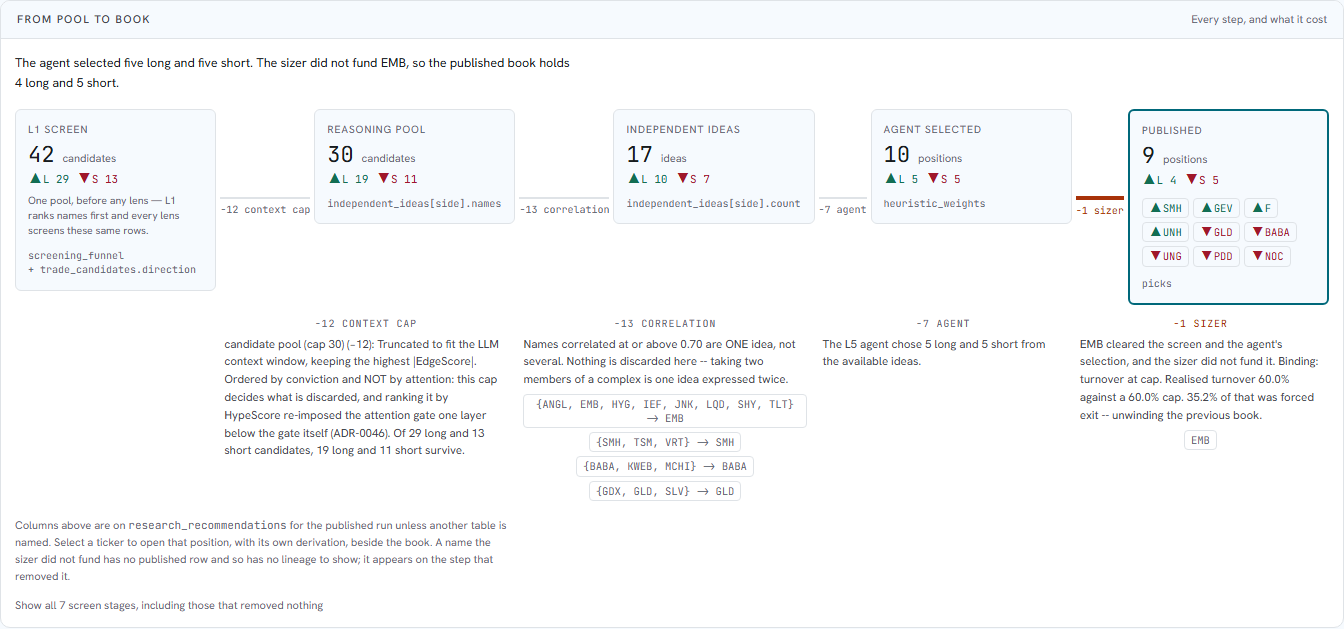
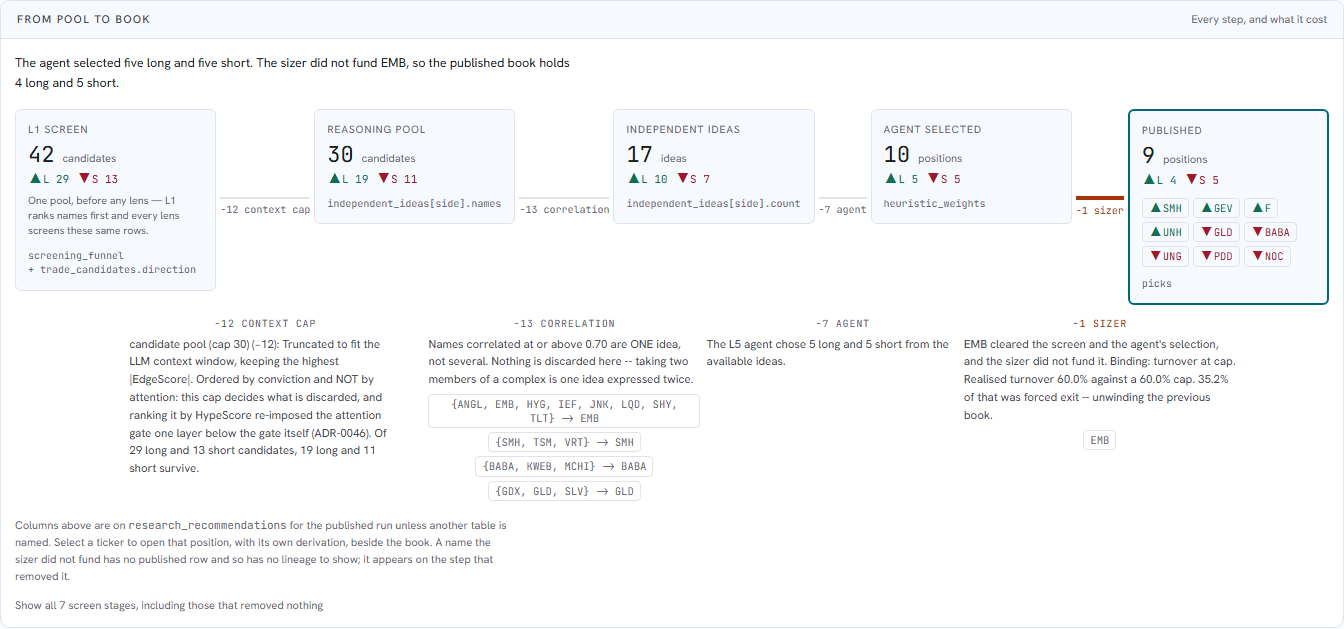
fix(book): the two "−12 context cap" labels share a centre
The previous commit centred each detail block inside a cell spanning
`connector + following node`, so its midpoint fell between the two — the label on
the line and the label heading its explanation sat at different x, which is the
misalignment the centring was supposed to fix.

The span now starts one track EARLIER: `node · connector · node`. Both node
tracks are 1fr, so the cell is symmetric about the connector and centring lands
on the connector's own centre. Measured, connector label against detail label:

    context    341 / 341        chosen     919 / 919
    ideas      640 / 640        published 1176 / 1176

delta 0 on all four.

Adjacent cells therefore SHARE a track (1-3, 3-5, 5-7, 7-9) and overlap as grid
AREAS. They do not overlap as ink: the content is capped at 17rem and centred
inside its three tracks, so each block occupies the middle of its own span with
clear space either side. Recorded because overlapping grid areas look like a bug
to the next reader and this one is load-bearing.

Unchanged below `lg`, where the chain is a flex column and the inline
`gridColumn` is inert: verified at 430, pipeline order intact, no overflow.

1133 frontend tests, tsc clean.

Changed region(s): [[0.0938, 0.5135, 0.9688, 0.7854], [0.8125, 0.6948, 0.8438, 0.725]]

diff --git a/frontend/components/book/BookFunnel.tsx b/frontend/components/book/BookFunnel.tsx
@@ -266,10 +266,24 @@ export default function BookFunnel({
                 {/* This step's account of itself, under its own connector. */}
                 {i > 0 && edge && (
                   <div
-                    className="min-w-0 text-[11.5px] leading-[1.55] lg:px-2 lg:text-center"
-                    style={{ gridColumn: `${edgeCol} / span 2`, gridRow: 2 }}
+                    // CENTRED ON THE CONNECTOR, which is why the span starts one
+                    // track EARLIER than the connector's own. Spanning
+                    // `edgeCol / span 2` and centring put the block's midpoint
+                    // between the connector and the next node, so the two
+                    // `−12 context cap` labels — the one on the line and the one
+                    // heading its explanation — sat at different x. Spanning
+                    // node-connector-node makes the cell symmetric about the
+                    // connector, because both node tracks are 1fr.
+                    //
+                    // Adjacent cells therefore SHARE a track (1-3, 3-5, 5-7,
+                    // 7-9) and overlap as grid areas. They do not overlap as
+                    // ink: the content is capped and centred inside, so each
+                    // block occupies the middle of its own three tracks.
+                    className="min-w-0 text-[11.5px] leading-[1.55] lg:text-center"
+                    style={{ gridColumn: `${edgeCol - 1} / span 3`, gridRow: 2 }}
                     data-testid={`funnel-detail-${node.id}`}
                   >
+                    <div className="lg:max-w-[17rem] lg:mx-auto">
                     <div
                       className="num text-[10px] uppercase tracking-[0.08em] mb-1"
                       style={{
@@ -297,6 +311,7 @@ export default function BookFunnel({
                         ))}
                       </ul>
                     ) : null}
+                    </div>
                   </div>
                 )}
               </Fragment>
